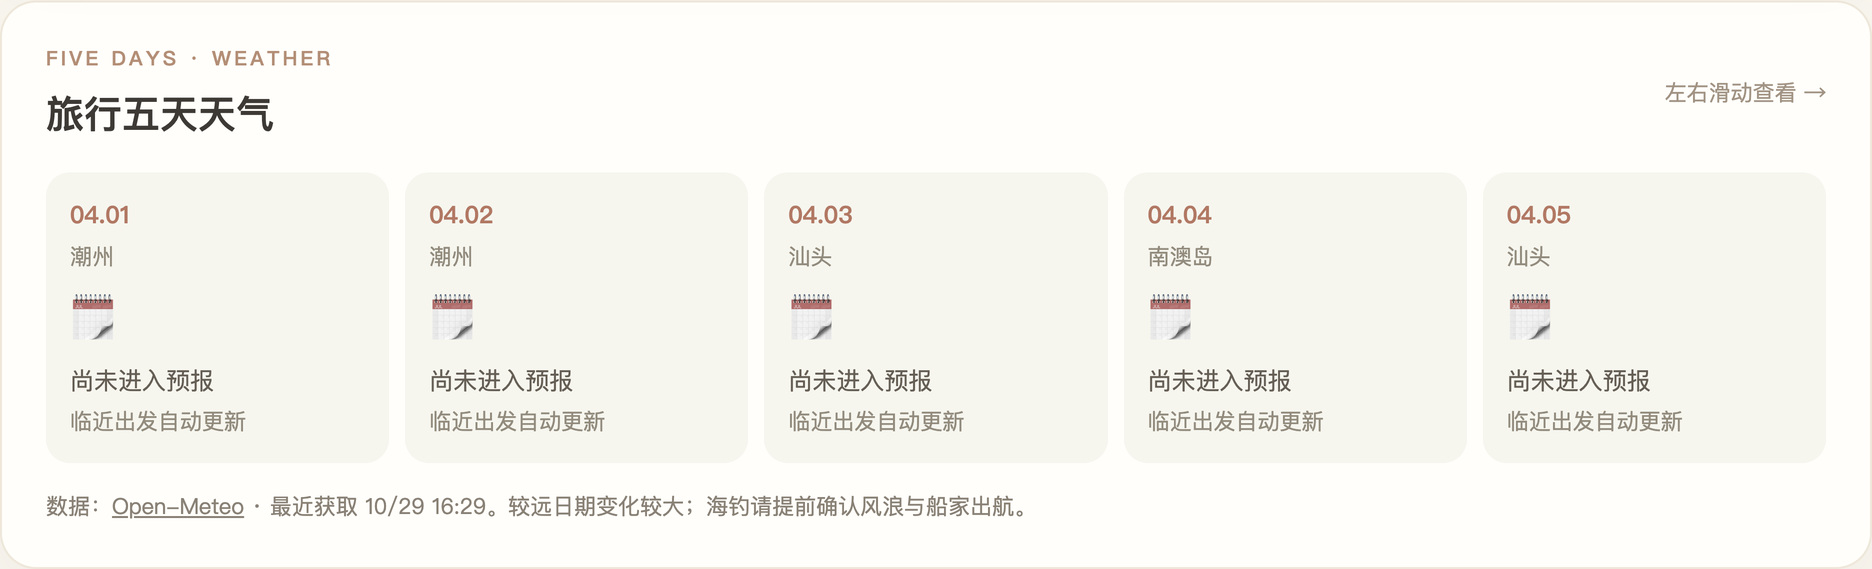
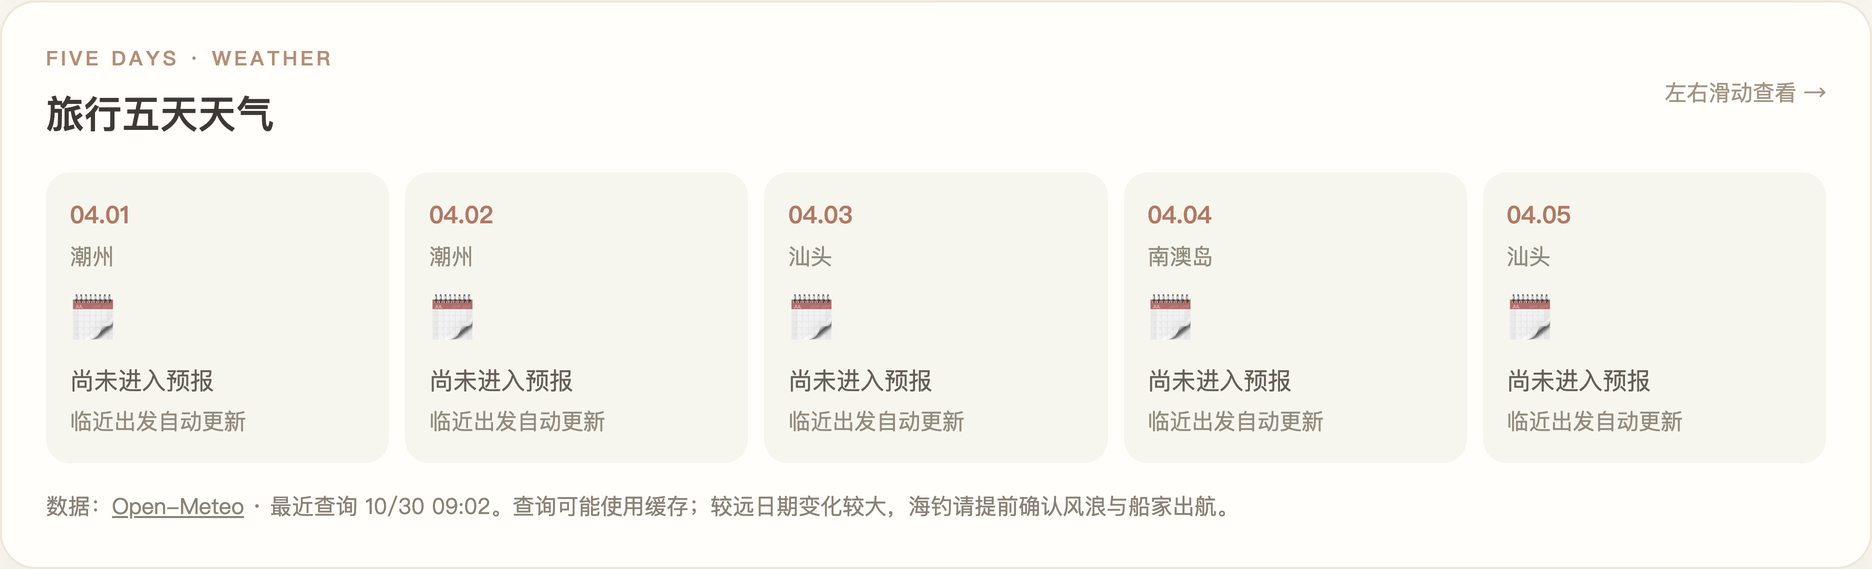
Audit weather status and correct case details

Changed region(s): [[0.2169, 0.8664, 0.6506, 0.9262], [0.1549, 0.8664, 0.1859, 0.9262]]

diff --git a/README.md b/README.md
@@ -8,7 +8,7 @@
 
 一份从「去哪玩、吃什么」到「下一站怎么走」都考虑周到的旅行规划 Skill。
 
-[快速开始](#-快速开始) · [安装方法](#-安装方法) · [核心亮点](#-为什么更省心) · [潮汕案例](#-潮汕旅行案例实际需求如何变成攻略) · [更新日志](#-更新日志--2026-10-29) · [使用边界](#-使用边界)
+[快速开始](#-快速开始) · [安装方法](#-安装方法) · [核心亮点](#-为什么更省心) · [潮汕案例](#-潮汕旅行案例实际需求如何变成攻略) · [更新日志](#-更新日志--2026-10-30) · [使用边界](#-使用边界)
 
 </div>
 
@@ -151,7 +151,7 @@ Copy-Item -Recurse travel-itinerary-skill\travel-itinerary "$HOME\.codex\skills\
 
 #### ☀ 旅行日期的天气预报
 
-行程主流程下方、预算上方按每天所在地点并排显示天气；可用时展示天气状况、最低与最高气温、降雨概率和获取时间，手机上可左右滑动。超出预报范围或数据不可用时会显示提示，不编造天气。案例使用 Open-Meteo，并尝试在服务器无法获取时由浏览器请求；能否获取仍取决于网络。海钓还需另行核实风浪与船家安排，路线调整由旅行者决定。
+行程主流程下方、预算上方按每天所在地点并排显示天气；可用时展示天气状况、最低与最高气温、降雨概率和最近查询时间，手机上可左右滑动。超出预报范围或数据不可用时会显示提示，不编造天气。案例使用 Open-Meteo，并尝试在服务器无法获取时由浏览器请求；能否获取仍取决于网络。海钓还需另行核实风浪与船家安排，路线调整由旅行者决定。
 
 <p align="center"><a href="docs/case-feature-forecast.png"><img src="docs/case-feature-forecast.png" width="600" alt="旅行天气卡片：按日展示目的地与预报状态"></a></p>
 
@@ -163,15 +163,23 @@ Copy-Item -Recurse travel-itinerary-skill\travel-itinerary "$HOME\.codex\skills\
 
 ### 住宿与美食如何筛选？
 
-住宿按**位置方便、舒适、性价比**优先，案例选择了潮州古城附近和汕头东区的舒适型连锁酒店，以减少搬行李与跨区往返；案例选择如家商旅（金标）潮州古城牌坊街店及桔子酒店（汕头金沙东路店），订单金额不公开。舒适度、房价和入住条件仍以实际订单及住客需求为准。
+住宿按**位置方便、舒适、性价比**优先，案例选择了潮州古城附近和汕头东区的舒适型连锁酒店，以减少搬行李与跨区往返；案例选择如家商旅（金标）潮州古城牌坊街店及桔子酒店（汕头金砂东路店），订单金额不公开。舒适度、房价和入住条件仍以实际订单及住客需求为准。
 
 餐饮结合中文互联网可访问的旅行攻略、地图、商家信息和食客评价筛选，**优先寻找有经营记录的地方特色老店**，再按路线、口味、排队与营业时间取舍。部分候选仅有平台或旅游目录记录，历史、近期经营或评价证据不够充分，不能一概称为已证实的老店，也不保证所有资料来自小红书、抖音或大众点评。可参考案例当时使用的[潮州美食资料](https://www.czcityofgastronomy.com/detail/1460)、[广济桥游览信息](https://static.nfnews.com/content/202601/19/c12092364.html)及[汕头西堤公园资料](https://www.shantou.gov.cn/stscgj/gkmlpt/content/2/2398/mpost_2398313.html)，出行前仍应重新核验。
 
-## 📝 更新日志 · 2026-10-29
+## 📝 更新日志 · 2026-10-30
+
+### 天气可靠性复核
+
+- 修正天气全部获取失败时仍显示“最近获取”的问题；当前页面会明确显示暂未获取到天气数据。
+- 服务端接口不可达或地点数据缺失时，尝试浏览器直连；全部失败时保留本次页面打开后上一次成功的数据，并提示更新失败。显示的是最近查询时间，接口可能使用缓存。
+- 本次线上接口核对可返回三个地点的预报；真实手机和微信内的获取情况尚未验证，天气可能随网络或第三方服务变化。
+
+### 2026-10-29
 
 ### 新增每日天气与旅行实践复盘
 
-- 新增五天横向天气卡片，按当天所在的潮州、汕头或南澳展示预报状态；可用时显示天气、温度、降雨概率与获取时间。卡片位于行程主流程后、预算前。
+- 新增五天横向天气卡片，按当天所在的潮州、汕头或南澳展示预报状态；可用时显示天气、温度、降雨概率与最近查询时间。卡片位于行程主流程后、预算前。
 - 使用 Open-Meteo 的 16 天预报；未进入预报范围、日期已过或数据获取失败时明确提示。服务端无法获取时尝试浏览器直连，但实际可用性取决于网络；远期预报和海上活动仍需临近出行复核。
 - 更新 Skill 的天气设计与验证流程，把来源、时区、预报范围、失败状态和用户自行调整写入通用要求。
 - 2026-10-29 本次复核：线上天气接口的潮州、汕头和南澳数据均未获取到；浏览器备用请求在真实手机和大陆网络上的结果尚未验证，不能保证天气能显示。
